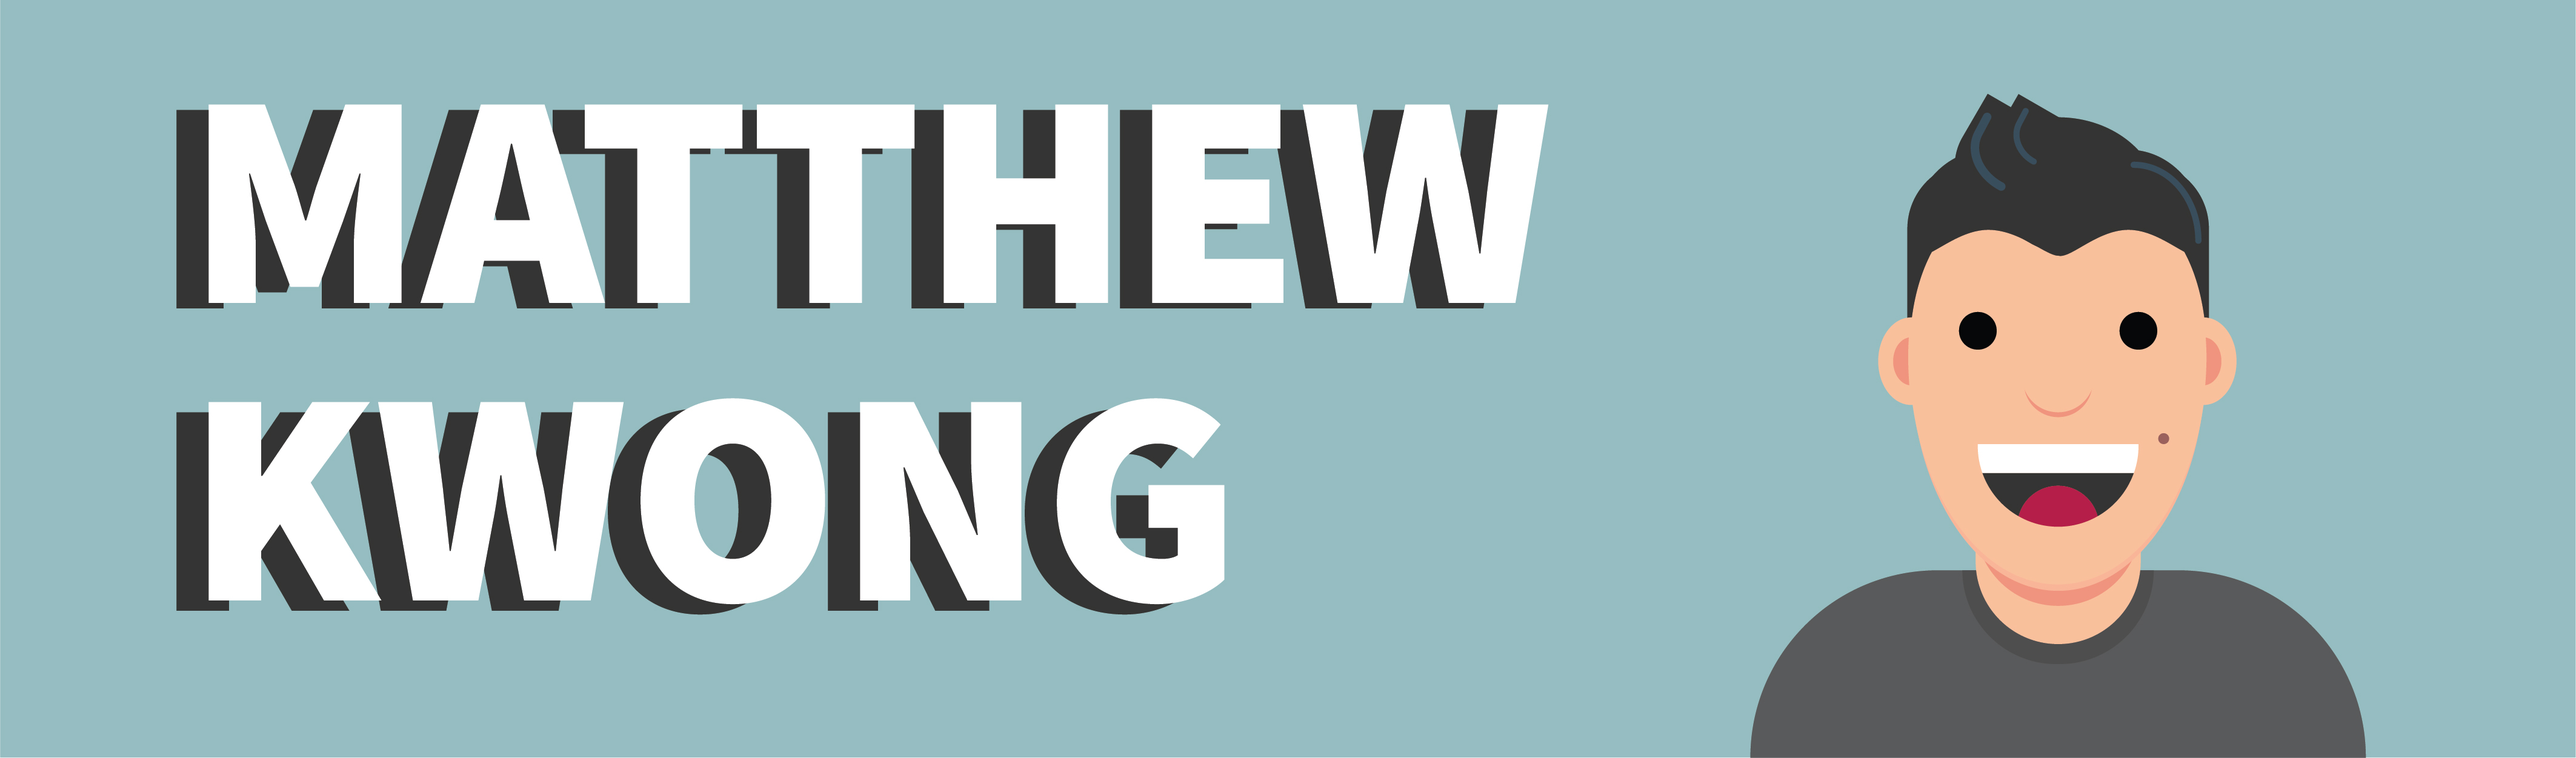
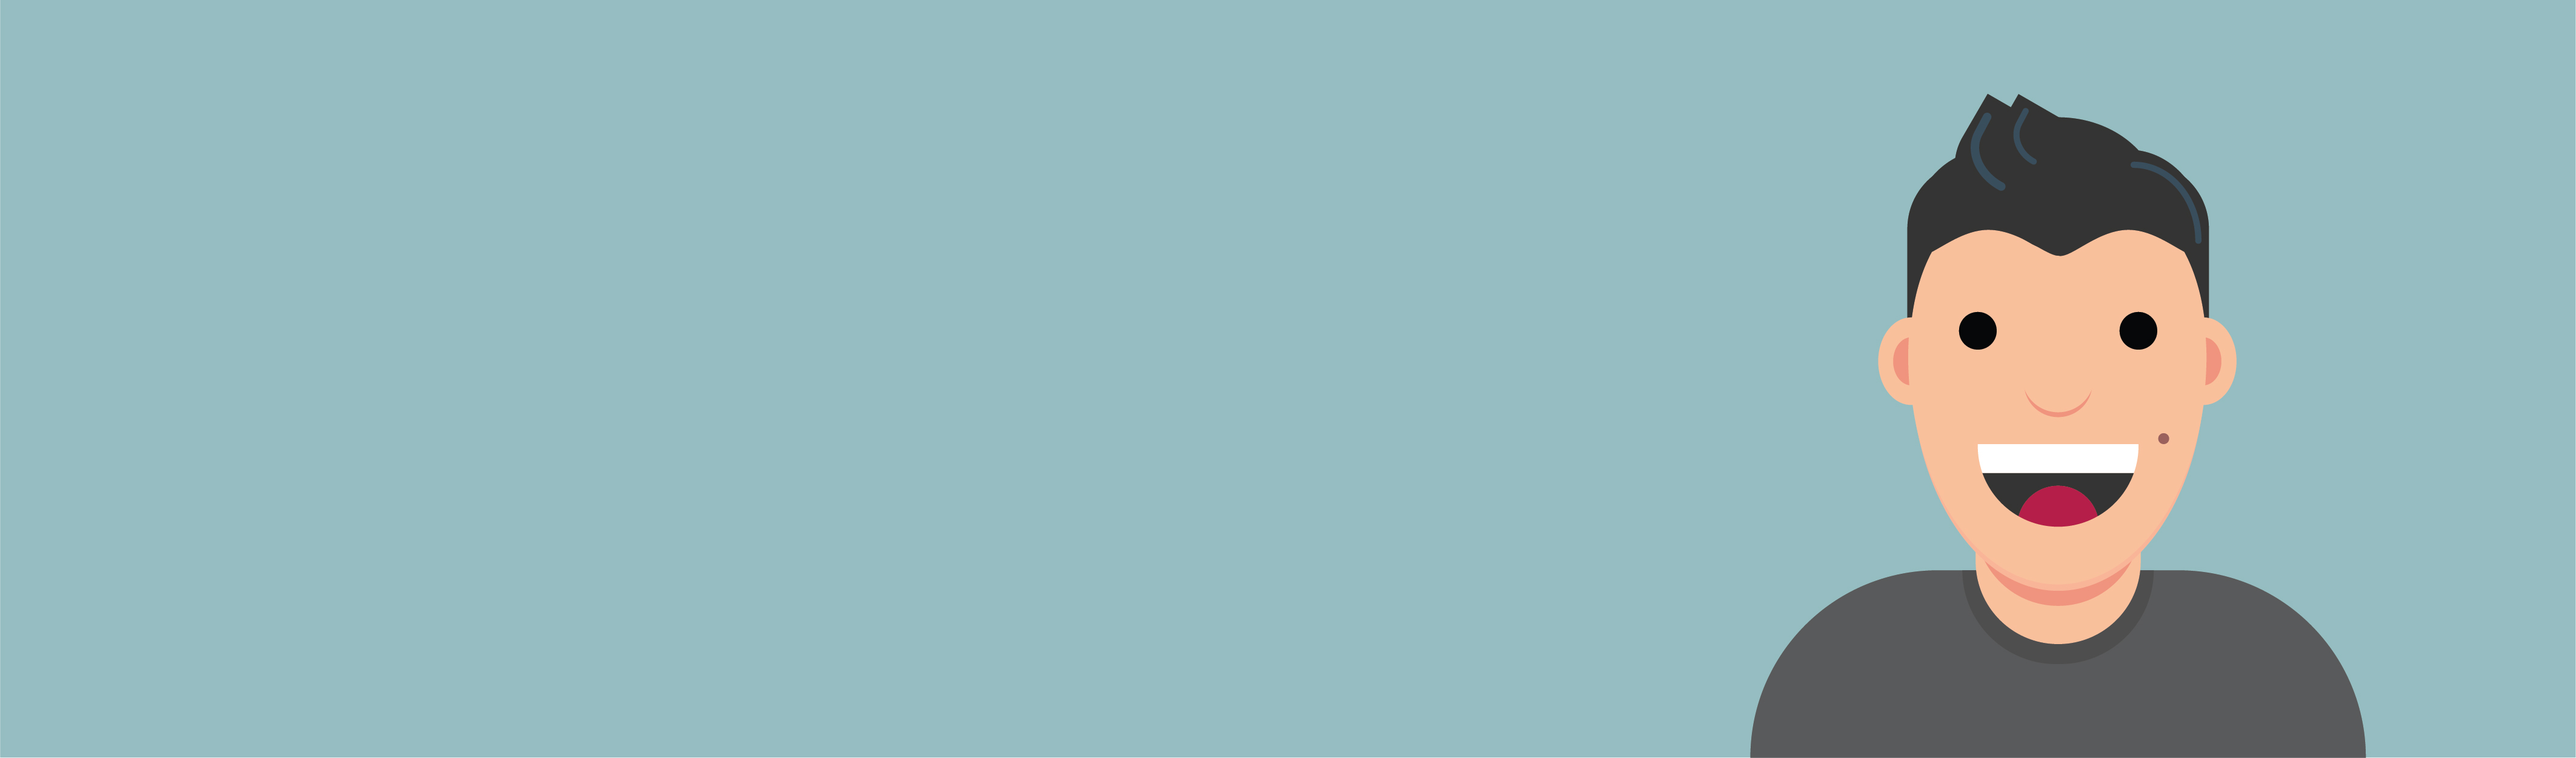
Make name into SVG animation on index.html

Changed region(s): [[0.0621, 0.1247, 0.621, 0.4053], [0.0621, 0.53, 0.4968, 0.8106]]

diff --git a/index.html b/index.html
@@ -2,12 +2,24 @@
 <html lang="en" dir="ltr">
   <head>
     <meta charset="utf-8">
+    <link rel="stylesheet" type="text/css" href="styles.css">
     <title>Matthew Kwong's Home page</title>
   </head>
   <body>
 
     <div id = "container">
         <header>
+          <svg xmlns="http://www.w3.org/2000/svg" viewBox="0 0 1020 308.75">
+              <g id="Layer_2" data-name="Layer 2"><text class="cls-17" transform="translate(61.1 248.35)">KWONG</text><text class="cls-17" transform="translate(61.1 139.86)">M<tspan class="cls-18" x="112.46" y="0">A</tspan>
+                  <tspan x="198.88" y="0">TTHEW</tspan>
+                </text></g>
+              <g id="Layer_4" data-name="Layer 4"><text class="cls-19" transform="translate(72.63 138)">M<tspan class="cls-18" x="112.46" y="0">A</tspan>
+                  <tspan x="198.88" y="0">TTHEW</tspan>
+                </text><text class="cls-19" transform="translate(72.63 244.49)">KWONG</text></g>
+            </svg>
+
+
+
           <img src = "images/banner.jpg" alt = "image banner" width = "1020" height = "300">
           <h1>Portal Page for Matthew Kwong</h1>
         </header>

diff --git a/styles.css b/styles.css
@@ -1,0 +1,54 @@
+.cls-1 {
+  fill: #95bdc1;
+}
+
+.cls-17,
+.cls-19,
+.cls-9 {
+  fill: none;
+}
+
+.cls-17,
+.cls-19 {
+  stroke-miterlimit: 10;
+}
+
+.cls-17,
+.cls-19 {
+  font-size: 109.39px;
+  stroke-width: 0.9px;
+  font-family: HiraKakuStd-W8-83pv-RKSJ-H, Hiragino Kaku Gothic Std;
+}
+
+.cls-17 {
+  stroke: #333;
+}
+
+.cls-18 {
+  letter-spacing: -0.08em;
+}
+
+.cls-19 {
+  stroke: #fff;
+}
+
+svg{
+  position: absolute;
+  height:300px;
+  width:1020px;
+}
+
+.cls-16,.cls-17,.cls-18,.cls-19{
+  stroke-dasharray: 2000;
+  stroke-dashoffset:0;
+  animation: draw 5s linear forwards;
+}
+@keyframes draw {
+  from {
+    stroke-dashoffset: 2000;
+  }
+
+  to {
+    stroke-dashoffset: 0;
+  }
+}
